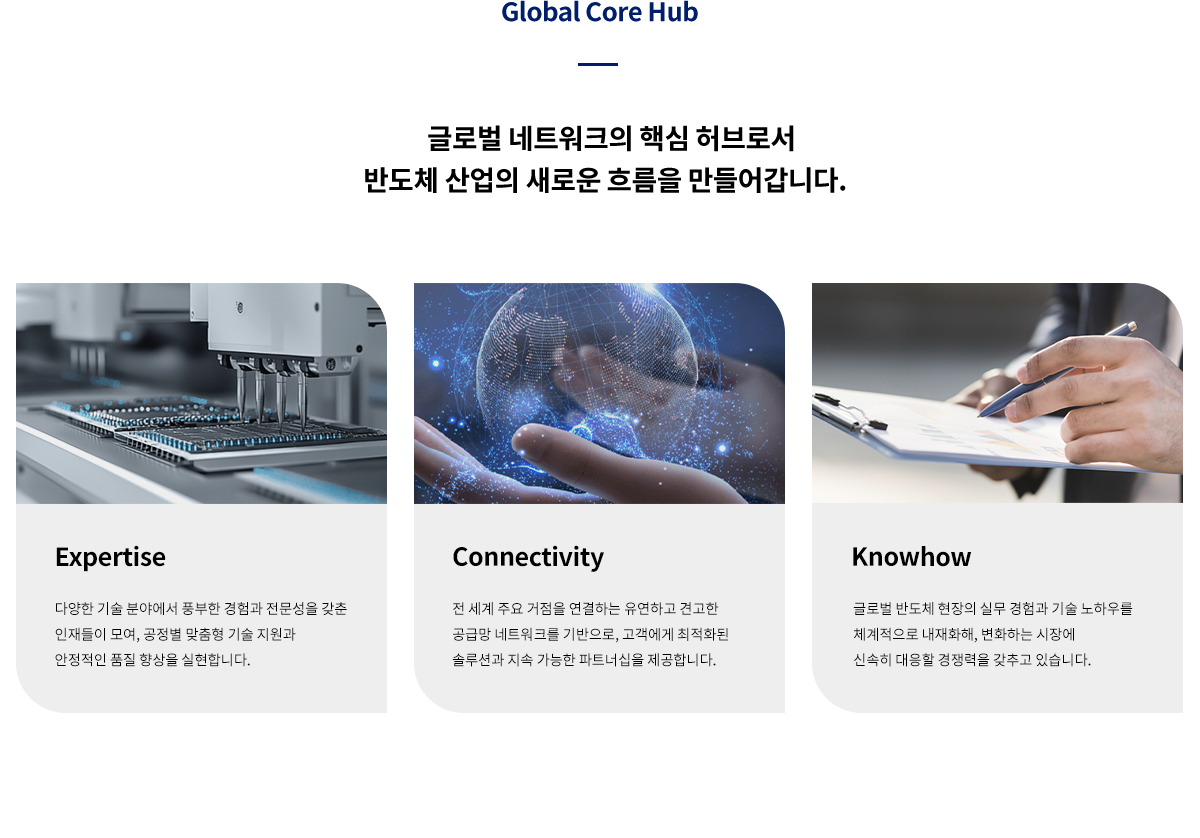
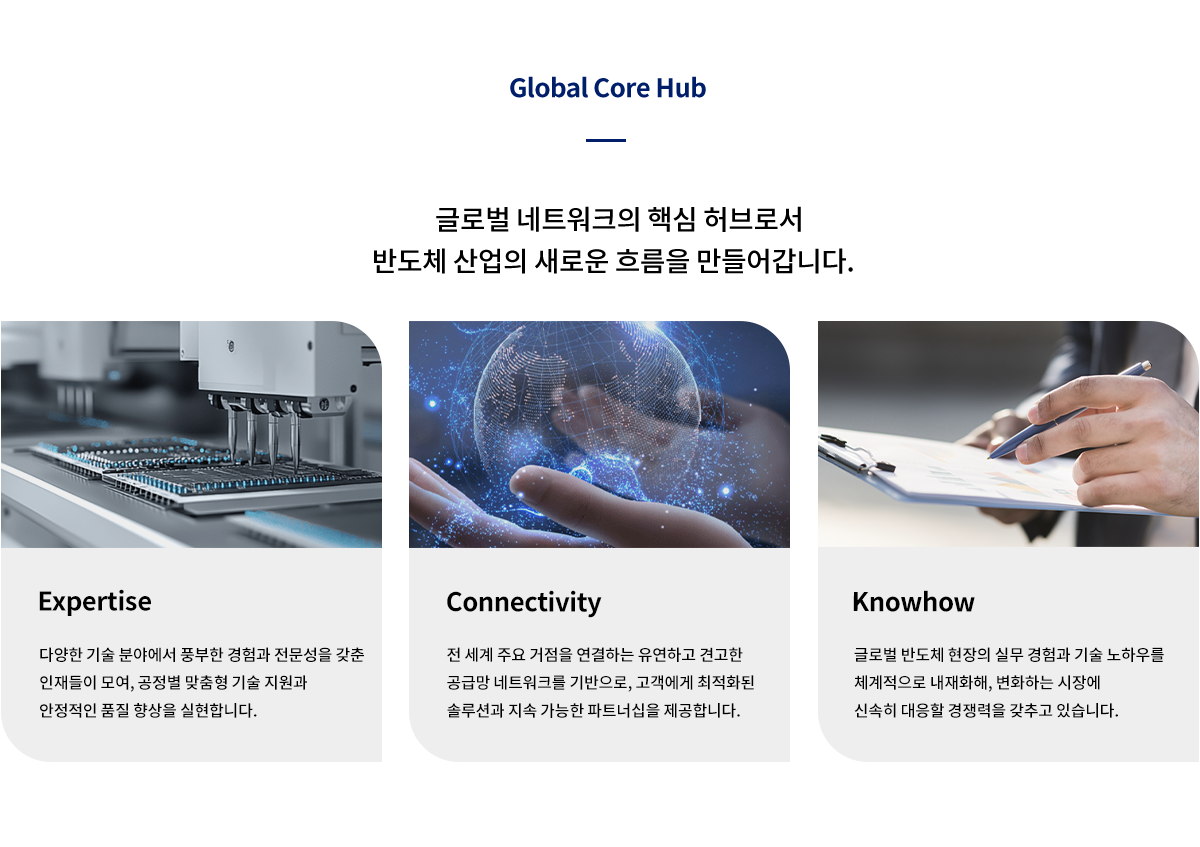
edit

diff --git a/RK/검수5차/home.html b/RK/검수5차/home.html
@@ -296,68 +296,19 @@
         </div>
       </div>
       
-      <div id="test1" style="margin: 60px 0 0 0;">
+      <div id="test1">
         <div class="inner">
             <img src="image/01.png" alt="">
         </div>
       </div>
 
-      <!-- <div id="mCompany" class="inner2">
-        <div class="txt_box">
-          <p class="tit"><span>We're Leading the Future</span></p>
-          <p class="txt">
-            론다코리아는 반도체 산업에 특화된 글로벌 기업으로, <br class="mo_br" />글로벌 선도 기업 출신 전문가들이 축적된 경험과 노하우를 바탕으로
-            최적의 솔루션을 제공합니다.
-          </p>
-        </div>
-        <div class="img_box"></div>
-      </div> -->
-
-      <div id="mProducts" class="inner" style="display: none;">
-        <div class="main_title">
-          <h2 class="wow fadeInLeft">Solutions</h2>
-          <p class="t1 wow fadeInRight">
-            전 공정에 걸쳐 폭넓은 기술력을 갖추고 있으며, <br />고성능 생산을 위한 인프라 및 공정 최적화 기술을 깊게 이해하고 있습니다.
-          </p>
-        </div>
-        <ul>
-          <li class="wow fadeInUp">
-            <a href="#">
-              <div class="img_box" style="height: 400px; background-image: url(https://rondakorea.mycafe24.com/images/mProducts_img1.png)"></div>
-              <div class="txt_box">
-                <span>Solution</span>
-                <h3>Product</h3>
-                <ol>
-                  <li>Consumable Parts</li>
-                  <li>Sub-FAB Solution</li>
-                  <li>Component</li>
-                </ol>
-              </div>
-            </a>
-          </li>
-          <li class="wow fadeInUp">
-            <a href="#">
-              <div class="img_box" style="height: 400px; background-image: url(https://rondakorea.mycafe24.com/images/mProducts_img2.png)"></div>
-              <div class="txt_box">
-                <span>Solution</span>
-                <h3>Technology</h3>
-                <ol>
-                  <li>Consumable Part Solution</li>
-                  <li>Critical Conponent</li>
-                </ol>
-              </div>
-            </a>
-          </li>
-        </ul>
-      </div>
-      
-      <div id="test3" style="padding: 60px 0 0 0;background-color: #f1f3ff;">
+      <div id="test3" style="background-color: #f1f3ff;">
         <div class="inner">
             <img src="image/02.png" alt="">
         </div>
       </div>
       
-      <div id="test4" style="padding: 60px 0 0 0;">
+      <div id="test4">
         <div class="inner">
             <img src="image/03.png" alt="">
         </div>

diff --git a/RK/검수5차/company.html b/RK/검수5차/company.html
@@ -419,27 +419,27 @@
         </script>
         
 
-        <section id="section1" class="section" style="margin-top: 20px; padding: 80px 0px;background: linear-gradient(to bottom, #ffffff, #f1f3ff);">
+        <section id="section1" class="section" style="background: linear-gradient(to bottom, #ffffff, #f1f3ff);">
           <div class="inner" style="padding: 0 80px;">
               <img src="image/company/01.png" style="width: 100%;">
           </div>
         </section>
-        <section id="section2" class="section" style="margin-top: 20px; padding: 80px 0px; background: linear-gradient(to bottom, #ffffff, #f1f3ff);">
+        <section id="section2" class="section" style="background: linear-gradient(to bottom, #ffffff, #f1f3ff);">
           <div class="inner" style="padding: 0 80px;">
               <img src="image/company/02.png" style="width: 100%;">
           </div>
         </section>
-        <section id="section3" class="section" style="margin-top: 20px; padding: 80px 0px; background: linear-gradient(to bottom, #ffffff, #f1f3ff);">
+        <section id="section3" class="section" style="background: linear-gradient(to bottom, #ffffff, #f1f3ff);">
           <div class="inner" style="padding: 0 80px;">
               <img src="image/company/03.png" style="width: 100%;">
           </div>
         </section>
-        <section id="section4" class="section" style="margin-top: 20px; padding: 80px 0px;">
+        <section id="section4" class="section">
           <div class="inner" style="padding: 0 80px;">
               <img src="image/company/04.png" style="width: 100%;">
           </div>
         </section>
-        <section id="section5" class="section" style="margin-top: 20px; padding: 80px 0px; background-color: #ebeeff;">
+        <section id="section5" class="section" style="background-color: #ebeeff;">
           <div class="inner" style="padding: 0 80px;">
               <img src="image/company/05.png" style="width: 100%;">
           </div>

diff --git a/RK/검수5차/technology.html b/RK/검수5차/technology.html
@@ -365,7 +365,7 @@
               공정용 소재 및 부품에 사용되어, 다양한 공정에서 장비 안정성 및 수율 향상에 기여합니다.
             </p>
             <div class="img_box" style="max-height: 400px">
-              <img src="image/raw_materials.jpg" />
+              <img src="image/technology/3_Raw Materials_3.png" />
             </div>
             <div class="list1">
               <dl style="min-width: 49%; margin-bottom: 10px">
